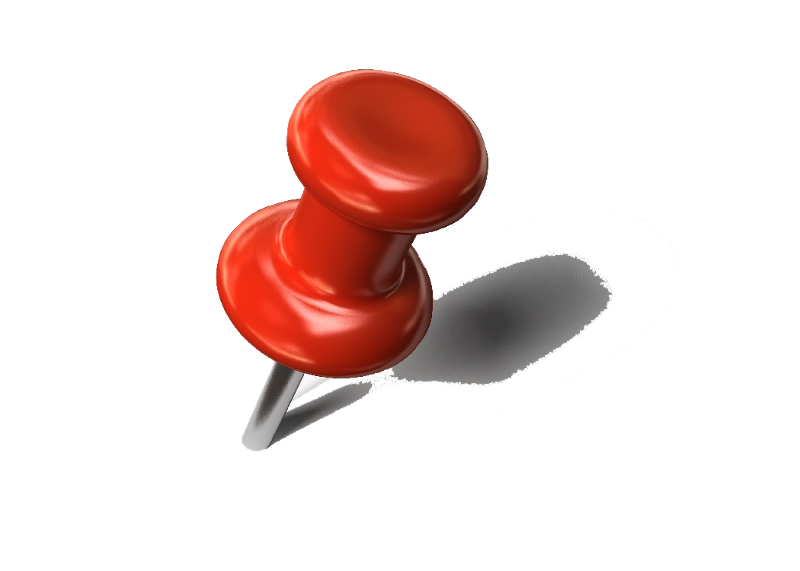
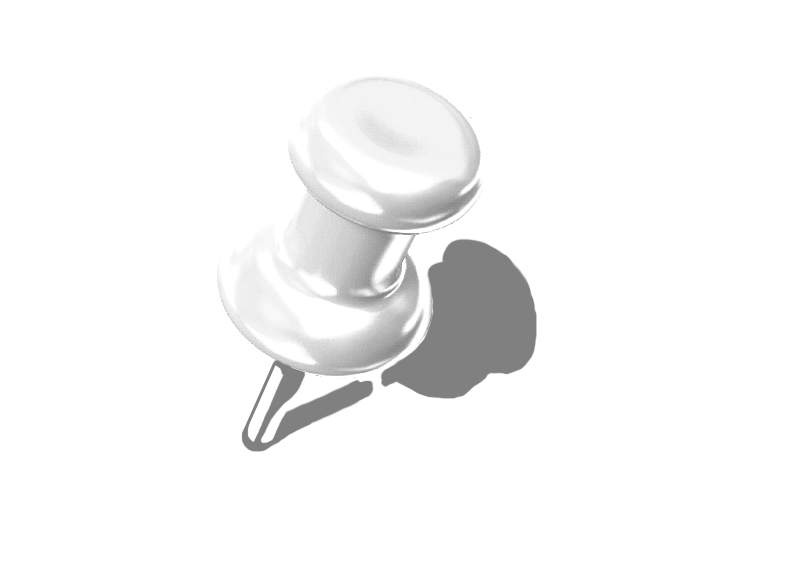
Marker color

Changed region(s): [[0.25, 0.1191, 0.7812, 0.8039]]

diff --git a/Blazor.OpenLayers/wwwroot/ol.js b/Blazor.OpenLayers/wwwroot/ol.js
@@ -1,37 +1,38 @@
 var _Map;
 var _Markers;
 
-export function Init(div, center, markers) {
+export function Init(div, center, zoom, markers, attributions) {
     _Map = new ol.Map({
         layers: [
             new ol.layer.Tile({
                 source: new ol.source.OSM({
-                    attributions: [ol.source.OSM.ATTRIBUTION, '<a href="https://www.teraword.net"><b>TeraWord</b></a>']
+                    attributions: [ol.source.OSM.ATTRIBUTION, attributions]
                 })
             })
         ],
         target: div,
         view: new ol.View({
-            center: ol.proj.fromLonLat(center),
-           // maxZoom: 18,
-            zoom: 12
+            center: ol.proj.fromLonLat(center.coordinates),
+            // maxZoom: 18,
+            zoom: zoom
         })
     });
 
     _Markers = new ol.layer.Vector({
         source: new ol.source.Vector(),
-        style: new ol.style.Style({
-            image: new ol.style.Icon({
-                anchor: [256, 439],
-                size: [800, 571],
-                offset: [0, 0],
-                opacity: 1,
-                scale: 0.1,  
-                anchorXUnits: 'pixels', // pixels fraction
-                anchorYUnits: 'pixels', // pixels fraction
-                src: './_content/teraword.blazor.openlayers/img/pin.png'
-            }),
-        }),
+        //style: new ol.style.Style({
+        //    image: new ol.style.Icon({
+        //        anchor: [256, 439],
+        //        size: [800, 571],
+        //        offset: [0, 0],
+        //        opacity: 1,
+        //        scale: 0.1,
+        //        color: '#BADA55',
+        //        anchorXUnits: 'pixels', // pixels fraction
+        //        anchorYUnits: 'pixels', // pixels fraction
+        //        src: './_content/teraword.blazor.openlayers/img/pin.png'
+        //    }),
+        //}),
     });
 
     _Map.addLayer(_Markers);
@@ -39,21 +40,42 @@ export function Init(div, center, markers) {
     Markers(markers);
 }
 
-export function Center(center) {
+export function Center(point) {
     //_Map.getView().fit(bounds, map.getSize());
-    _Map.getView().setCenter(ol.proj.fromLonLat(center));
-    //_Map.getView().setZoom(5);
+    _Map.getView().setCenter(ol.proj.fromLonLat(point.coordinates));
+}
+
+export function Zoom(zoom) {
+    _Map.getView().setZoom(zoom);
 }
 
 export function Markers(markers) {
-    _Markers.getSource().clear();
+    var source = _Markers.getSource();
+
+    source.clear();
 
     markers.forEach((point) => {
         var marker = new ol.Feature({
-            geometry: new ol.geom.Point(ol.proj.fromLonLat(point)),
+            geometry: new ol.geom.Point(ol.proj.fromLonLat(point.coordinates)),
             name: 'Point'
         });
 
-        _Markers.getSource().addFeature(marker);
+        marker.setStyle(
+            new ol.style.Style({
+                image: new ol.style.Icon({
+                    anchor: [256, 439],
+                    size: [800, 571],
+                    offset: [0, 0],
+                    opacity: 1,
+                    scale: 0.1,
+                    color: point.color,
+                    anchorXUnits: 'pixels', // pixels fraction
+                    anchorYUnits: 'pixels', // pixels fraction
+                    src: './_content/teraword.blazor.openlayers/img/pin.png'
+                }),
+            })
+        );
+
+        source.addFeature(marker);
     });
 }

diff --git a/Blazor.OpenLayers/Map.razor.cs b/Blazor.OpenLayers/Map.razor.cs
@@ -13,10 +13,15 @@ namespace TeraWord.Blazor.OpenLayers
     {
         [Inject] private IJSRuntime JSRuntime { get; set; }
 
-        [Parameter] public GeoPoint Center { get => _Center; set { _Center = value; GotoCenter(value); } }
-        private GeoPoint _Center;
+        [Parameter] public Point Center { get => _center; set { _center = value; SetCenter(value); } }
+        private Point _center;
 
-        [Parameter] public ObservableCollection<GeoPoint> Markers { get; set; }
+        [Parameter] public string Attributions { get; set; } = "<a href='https://www.teraword.net'><b>TeraWord</b></a>";
+
+        [Parameter] public double Zoom { get => _zoom; set { _zoom = value; SetZoom(value); } } 
+        private double _zoom = 14;
+
+        [Parameter] public ObservableCollection<Point> Markers { get; set; }
 
         private string Div { get; set; }
 
@@ -31,17 +36,12 @@ namespace TeraWord.Blazor.OpenLayers
         {
             base.OnInitialized();
 
-            Center ??= new GeoPoint { Latitude = 39.2236, Longitude = 9.1181 };
-            Markers ??= new ObservableCollection<GeoPoint>();
+            Center ??= new Point { Latitude = 39.2236, Longitude = 9.1181 };
+            Markers ??= new ObservableCollection<Point>();
 
             Markers.CollectionChanged += Markers_CollectionChanged;
         }
-
-        private async void Markers_CollectionChanged(object sender, System.Collections.Specialized.NotifyCollectionChangedEventArgs e)
-        {
-            if (Module is not null) await Module.InvokeVoidAsync("Markers", Markers.Select(x => x.AsOpenLayers));
-        }
-
+        
         protected override async Task OnAfterRenderAsync(bool firstRender)
         {
             await base.OnAfterRenderAsync(firstRender);
@@ -50,7 +50,7 @@ namespace TeraWord.Blazor.OpenLayers
             {
                 Module = await JSRuntime.InvokeAsync<IJSObjectReference>("import", "./_content/teraword.blazor.openlayers/ol.js");
 
-                if (Module is not null) await Module.InvokeVoidAsync("Init", Div, Center.AsOpenLayers, Markers.Select(x => x.AsOpenLayers));
+                if (Module is not null) await Module.InvokeVoidAsync("Init", Div, Center, Zoom, Markers, Attributions);
             }
             else
             {
@@ -58,9 +58,24 @@ namespace TeraWord.Blazor.OpenLayers
             }            
         }
 
-        public async void GotoCenter(GeoPoint center)
+        private void Markers_CollectionChanged(object sender, System.Collections.Specialized.NotifyCollectionChangedEventArgs e)
         {
-            if (Module is not null) await Module.InvokeVoidAsync("Center", center.AsOpenLayers);
+            SetMarkers(Markers);
+        }
+
+        private async void SetMarkers(ObservableCollection<Point> markers)
+        {
+            if (Module is not null) await Module.InvokeVoidAsync("Markers", markers);
+        }
+
+        private async void SetCenter(Point center)
+        {
+            if (Module is not null) await Module.InvokeVoidAsync("Center", center);
+        }
+
+        private async void SetZoom(double zoom)
+        {
+            if (Module is not null) await Module.InvokeVoidAsync("Zoom", zoom);
         }
 
         protected virtual async ValueTask DisposeAsyncCore()

diff --git a/Demo/Pages/Index.razor.cs b/Demo/Pages/Index.razor.cs
@@ -8,15 +8,20 @@ namespace Demo.Pages
 {
     public partial class Index
     {
-        public GeoPoint Center { get; set; }
+        public Point Center { get; set; }
 
         private Map Map { get; set; }
 
         private static Random rnd = new();
 
-        public GeoPoint NewRndPoint(GeoPoint around, double delta = 0.05)
+        public Point NewRndPoint(Point around, string color, double delta = 0.05)
         {
-            return new GeoPoint(around.Latitude + (rnd.NextDouble() - 0.5) * delta, around.Longitude + (rnd.NextDouble() - 0.5) * delta);
+            return new Point
+            {
+                Latitude = around.Latitude + (rnd.NextDouble() - 0.5) * delta,
+                Longitude = around.Longitude + (rnd.NextDouble() - 0.5) * delta,
+                Color = color
+            };
         }
 
         protected override async Task OnAfterRenderAsync(bool firstRender)
@@ -25,20 +30,21 @@ namespace Demo.Pages
 
             if (firstRender)
             {
-                Center = new GeoPoint { Latitude = 39.2236, Longitude = 9.1181 };
+                Center = new Point { Latitude = 39.2236, Longitude = 9.1181, Color = "#00FF00" };
 
-                Map.Markers.Add(NewRndPoint(Center));
+                Map.Markers.Add(Center);
             }
         }
 
         private void OnCenterClick(dynamic e)
         {
-            Center = new GeoPoint { Latitude = 39.2236, Longitude = 9.1181 };
+            Center = new Point { Latitude = 39.2236, Longitude = 9.1181, Color = "#00FF00" }; // Cagliari
         }
 
         private void OnMarkerClick(dynamic e)
         {
-            Map.Markers.Add(new GeoPoint(39.2236 + (rnd.NextDouble()-0.5)*0.05, 9.1181 + (rnd.NextDouble()-0.5)*0.05));
+            var color = (rnd.Next(100) % 2) switch { 0 => "#FF0000", 1 => "#00FF00", _ => "#0000FF" };
+            Map.Markers.Add(NewRndPoint(Center, color));
         }
     }
 }

diff --git a/Blazor.OpenLayers/Model/Point.cs b/Blazor.OpenLayers/Model/Point.cs
@@ -1,0 +1,31 @@
+using System;
+using System.Collections.Generic;
+using System.Linq;
+using System.Text;
+using System.Threading.Tasks;
+
+namespace TeraWord.Blazor.OpenLayers
+{
+    public class Point
+    {
+        public Point() { }
+
+        public Point(params double[] coordinates)
+        {
+            if (coordinates.Length > 0) Latitude = coordinates[0];
+            if (coordinates.Length > 1) Longitude = coordinates[1];
+        }
+
+        public double Latitude { get => _coordinates[1]; set => _coordinates[1] = value; }
+
+        public double Longitude { get => _coordinates[0]; set => _coordinates[0] = value; }
+
+        public string Color { get; set; }
+
+        /// <summary>
+        /// Coordinate in OpenLayers Style: [Longitude, Latitude]
+        /// </summary>
+        public double[] Coordinates { get => _coordinates; set => _coordinates = value; }
+        private double[] _coordinates = new double[2] { 0, 0 };
+    }
+}
